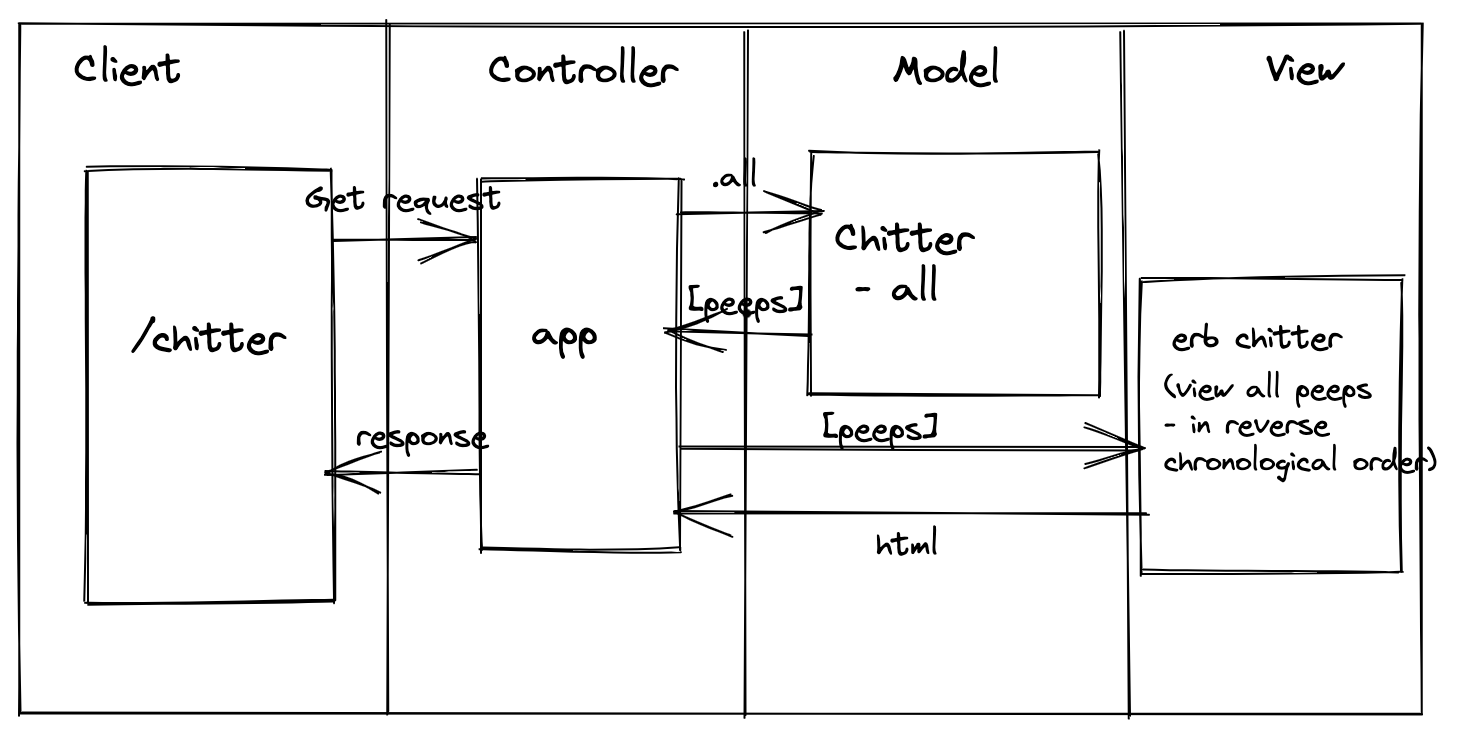
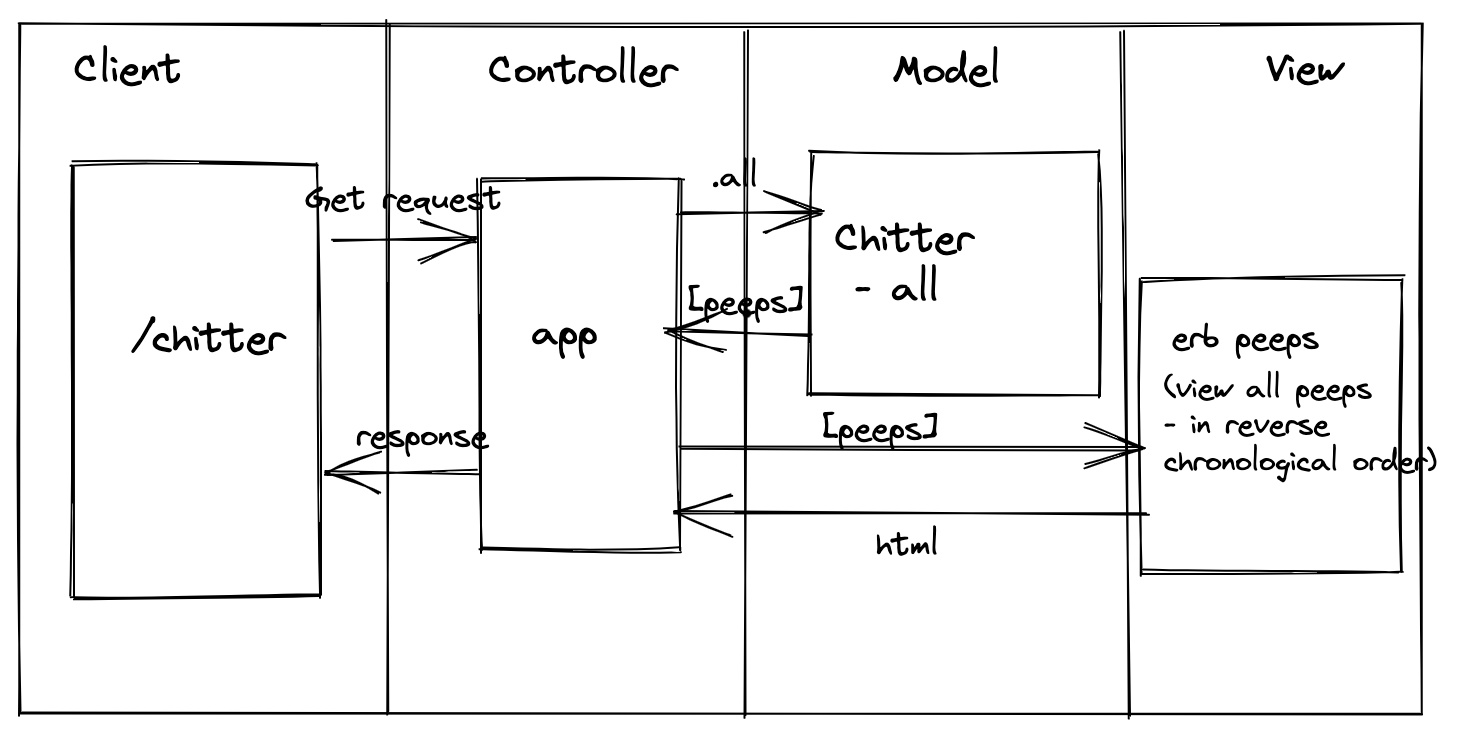
First tests - viewing peeps

Changed region(s): [[0.0618, 0.2805, 0.2471, 0.8415], [0.0309, 0.2182, 0.2471, 0.8103], [0.8339, 0.4363, 0.9266, 0.4986]]

diff --git a/spec/features/viewing_peeps_spec.rb b/spec/features/viewing_peeps_spec.rb
@@ -1,0 +1,15 @@
+feature 'viewing Chitter' do
+  scenario 'visit the index page' do
+    visit('/')
+    expect(page).to have_content "Welcome to Chitter"
+  end
+end
+
+feature 'viewing peeps' do
+  scenario 'a user can view peeps' do
+    visit('/peeps')
+    expect(page).to have_content "peep_1"
+    expect(page).to have_content "peep_2"
+    expect(page).to have_content "peep_3"
+  end
+end

diff --git a/app.rb b/app.rb
@@ -1,13 +1,18 @@
 require 'sinatra/base'
 require 'sinatra/reloader'
 
-class ChitterChallenge < Sinatra::base
+class ChitterChallenge < Sinatra::Base
   configure :development do
     register Sinatra::reloader
   end
 
-  get ('/')
-    'Hello World'
+  get ('/') do
+    'Welcome to Chitter'
+  end
+
+  get ('/peeps') do
+    @peeps = Chitter.all
+    erb :peeps
   end
 
 

diff --git a/spec/chitter_spec.rb b/spec/chitter_spec.rb
@@ -1,0 +1,14 @@
+require 'chitter'
+
+RSpec.describe 'Chitter' do
+  describe '.all' do
+    it 'returns the list of peeps' do
+      peeps = Chitter.all
+
+      expect(peeps).to include "peep_1"
+      expect(peeps).to include "peep_2"
+      expect(peeps).to include "peep_3"
+    end
+  end
+end
+

diff --git a/spec/spec_helper.rb b/spec/spec_helper.rb
@@ -6,6 +6,8 @@ require 'rspec'
 require 'simplecov'
 require 'simplecov-console'
 
+require File.join(File.dirname(__FILE__), '..', 'app.rb')
+
 Capybara.app = ChitterChallenge
 
 SimpleCov.formatter = SimpleCov::Formatter::MultiFormatter.new([

diff --git a/lib/chitter.rb b/lib/chitter.rb
@@ -1,0 +1,8 @@
+class Chitter
+  def self.all
+    ["peep_1", "peep_2", "peep_3"]
+  end
+
+
+
+end

diff --git a/README.md b/README.md
@@ -8,37 +8,35 @@ To write a small Twitter clone that will allow the users to post messages to a p
 
 Features:
 -------
-
 User Story 1:
-As a Maker
-So that I can let people know what I am doing  
-I want to post a message (peep) to chitter
+As a Maker,
+So that I can see what others are saying, 
+I want to see all peeps in reverse chronological order
 
 <img src="chitter_challenge _ model_1.png">
 
 User Story 2:
-As a Maker
-So that I can see what others are saying  
-I want to see all peeps in reverse chronological order
+As a Maker,
+So that I can let people know what I am doing, 
+I want to post a message (peep) to chitter
 
 User Story 3:
-As a Maker
-So that I can better appreciate the context of a peep
+As a Maker, 
+So that I can better appreciate the context of a peep, 
 I want to see the time at which it was made
 
 User Story 4:
-As a Maker
-So that I can post messages on Chitter as me
+As a Maker, 
+So that I can post messages on Chitter as me, 
 I want to sign up for Chitter
 
 HARDER
-
-As a Maker
-So that only I can post messages on Chitter as me
+As a Maker, 
+So that only I can post messages on Chitter as me, 
 I want to log in to Chitter
 
-As a Maker
-So that I can avoid others posting messages on Chitter as me
+As a Maker, 
+So that I can avoid others posting messages on Chitter as me, 
 I want to log out of Chitter
 
 
